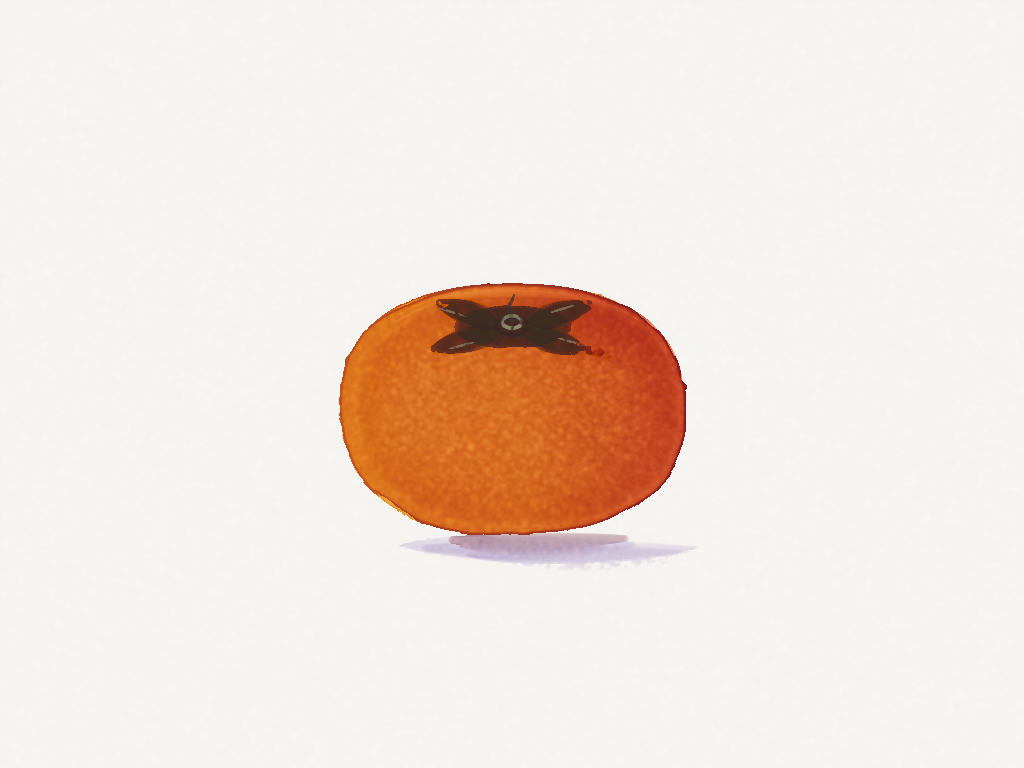
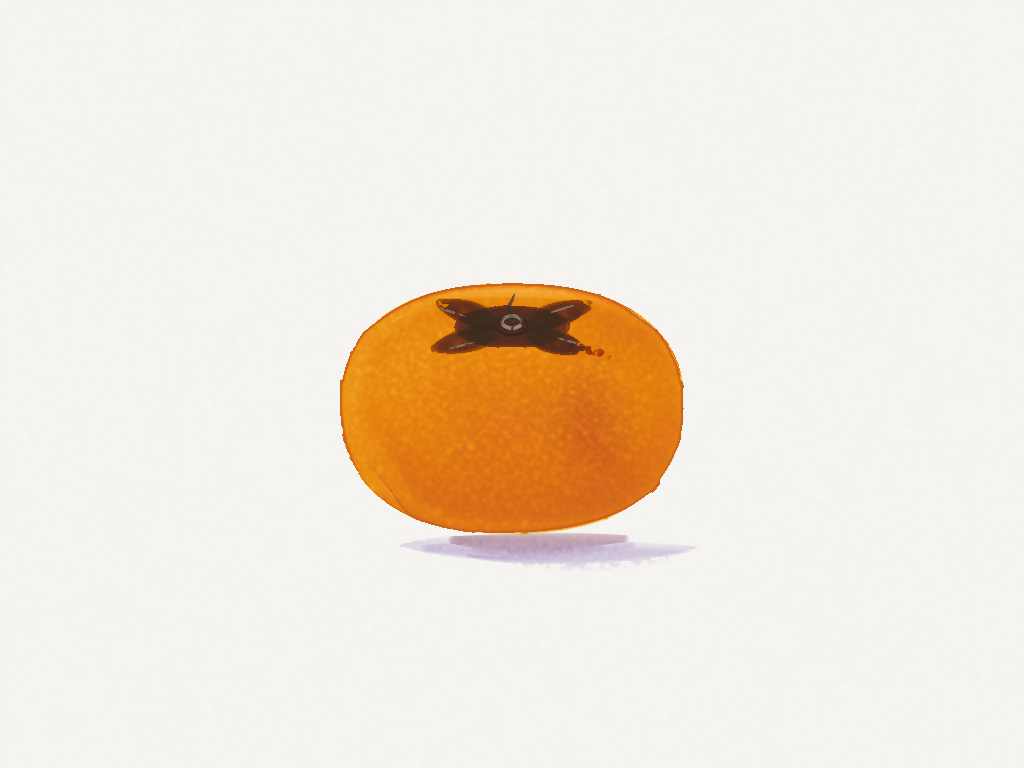
Autumn lantern on the drier wash: graded body at 0.36; probe bands masked to the shape
0.38 reads heavy on the right and 0.33 pale in the middle on the new wash, and
a variegated body stacks on the wash's own left-pale/right-dark bias (discs
measure left 0.95, right 1.44 inside the shape), leaving a pale crescent just
inside the fruit's left edge. A graded body (fadeTo 2.2) still carries a real
top-to-bottom turn and keeps that edge clean, so the fruit uses it at 0.36.

Probe: every band now samples inside the shape only. Across a disc's edge the
band was catching cells outside it, so spill or bare paper there moved the
number; this is why the disc figures they quoted and mine disagreed.

Changed region(s): [[0.3125, 0.3438, 0.6875, 0.6875], [0.5, 0.6875, 0.5312, 0.7188], [0.4375, 0.6875, 0.4688, 0.7188]]

diff --git a/paintings/autumn-lantern.js b/paintings/autumn-lantern.js
@@ -1,9 +1,10 @@
 // Autumn lantern (a Fuyu persimmon) on white paper.
-// Eleventh pass, on the wash fix (commit e7b74fc: edge loops cut at fixed slab lines, so a
-// round wash no longer lays neighbouring loops seconds apart and leaves a ghost seam). That
-// seam was what wrecked the squarer silhouette on pass seven, so the Fuyu proportions are
-// back: 1.28 as wide as tall, n 2.35, and a slightly thinner wash, since the fixed wash
-// lands stronger. The shadow no longer has the thin dark contact line that read as a stick.
+// Eleventh pass, on the later wash work (e6d11da, 29eaaaf: a drier moist wash, rows at a
+// fixed dose, paint 1.3x to keep a wash about one stroke). The body is a graded wash now:
+// graded was untestable before the rework and now carries a real top-to-bottom turn, which
+// suits a fruit lit from above, and it keeps the left edge clean (a variegated body at these
+// strengths piled onto the wash's own right-hand darkening and left a pale crescent on the
+// left). Strength 0.36: 0.38 reads a shade heavy on the right, 0.33 a shade pale in the middle.
 const S=window.__sim,h=S.headless,V=S.values,M=window.__minds;
 window.__paintLog=[];
 const log=t=>{window.__paintLog.push(t);console.log('[paint]',t);};
@@ -63,8 +64,8 @@ window.__paintDone=(async()=>{
   await dry([[556,546]]);await S.look('shadow');
 
   log('the fruit: yellow-orange across into deep red-orange, one variegated wash');
-  h.setBrushPreset('mop');h.setBrush(LIGHT);V.brushRadius=72;V.brushPigment=0.38;V.dipLoad=0.36;
-  await S.wash(fruit,{kind:'variegated',into:DEEP,direction:'across',paper:'moist'});
+  h.setBrushPreset('mop');h.setBrush(LIGHT);V.brushRadius=72;V.brushPigment=0.36;V.dipLoad=0.36;
+  await S.wash(fruit,{kind:"graded",fadeTo:2.2,paper:"moist"});
   await S.skipTo('shiny',{points:[[512,406]]});
 
   log('the deepest note low on the right, while shiny, following the form');
@@ -110,6 +111,6 @@ window.__paintDone=(async()=>{
   await S.path([[556,342,0.1],[598,352,0.45],[626,366,0.1]],4);
   await dry([[512,CALY]]);
   await S.look('finished');
-  await S.note('Autumn lantern (paintings/autumn-lantern.js), DeepSeek: a Fuyu persimmon on white paper, repainted on the wash rework (d849fc3). What the rework changed for this study: the body wash now lands at about one stroke in the middle (was up to 2.6 times that on some shapes), so 0.30 comes out pale and flat and the body went to 0.38; and a variegated wash now really does carry the turn it promises, so the body is LIGHT variegated across into DEEP (pyrrole scarlet / red oxide / quinacridone rose), with one deep note low on the right while shiny, the top edge lifted, and the calyx clamped onto the dry fruit as before. Also tried on the fixed wash, in swatches (.local/turn-swatches.js): graded fadeTo 1.8 and 2.4 both carry a gentle top-to-bottom turn now (they were indistinguishable from flat before the rework) — worth remembering for subjects lit from above. No physics changes.');
+  await S.note('Autumn lantern (paintings/autumn-lantern.js), DeepSeek: a Fuyu persimmon on white paper, corrected again after the later wash work (e6d11da, 29eaaaf). The body is now a graded wash (fadeTo 2.2) at 0.36: graded only became usable after the rework, and it gives the fruit the honest turn a variegated body no longer does cleanly. On the current wash a variegated body doubles up with the wash own left-pale/right-dark bias (the probe measures discs at left 0.95, right 1.44 inside the shape) so the fruit came out with a pale crescent inside its left edge and a heavy right; graded avoids that, and 0.38 reads too heavy on the right while 0.33 reads pale in the middle. Calyx and shadow unchanged: dark collar clamped onto the dry fruit, rigger creases, tan rims, pale stem scar; violet shadow into a damp oval with every mark below the base. No physics changes.');
   log('done');
 })();

diff --git a/tools/probes.js b/tools/probes.js
@@ -770,10 +770,15 @@
       const bands = async (poly, x0, y0, x1, y1) => {
         const bw = Math.max(8, Math.min(R, Math.round((y1 - y0) / 6)));
         const a = await S.read();
+        // Inside the shape only: a band across a disc's edge also catches the cells
+        // outside it, so any spill (or bare paper there) moved the number.
         const avg = (xa, xb, ya, yb) => {
           let s = 0, n = 0;
           for (let y = Math.max(0, Math.round(ya)); y < Math.min(SH, Math.round(yb)); y++)
-            for (let x = Math.max(0, Math.round(xa)); x < Math.min(W, Math.round(xb)); x++) { s += a[(y * W + x) * 4 + 2]; n++; }
+            for (let x = Math.max(0, Math.round(xa)); x < Math.min(W, Math.round(xb)); x++) {
+              if (!inPoly(poly, x, y)) continue;
+              s += a[(y * W + x) * 4 + 2]; n++;
+            }
           return s / Math.max(1, n);
         };
         const mid = avg(x0 + 2 * bw, x1 - 2 * bw, y0 + 2 * bw, y1 - 2 * bw);
